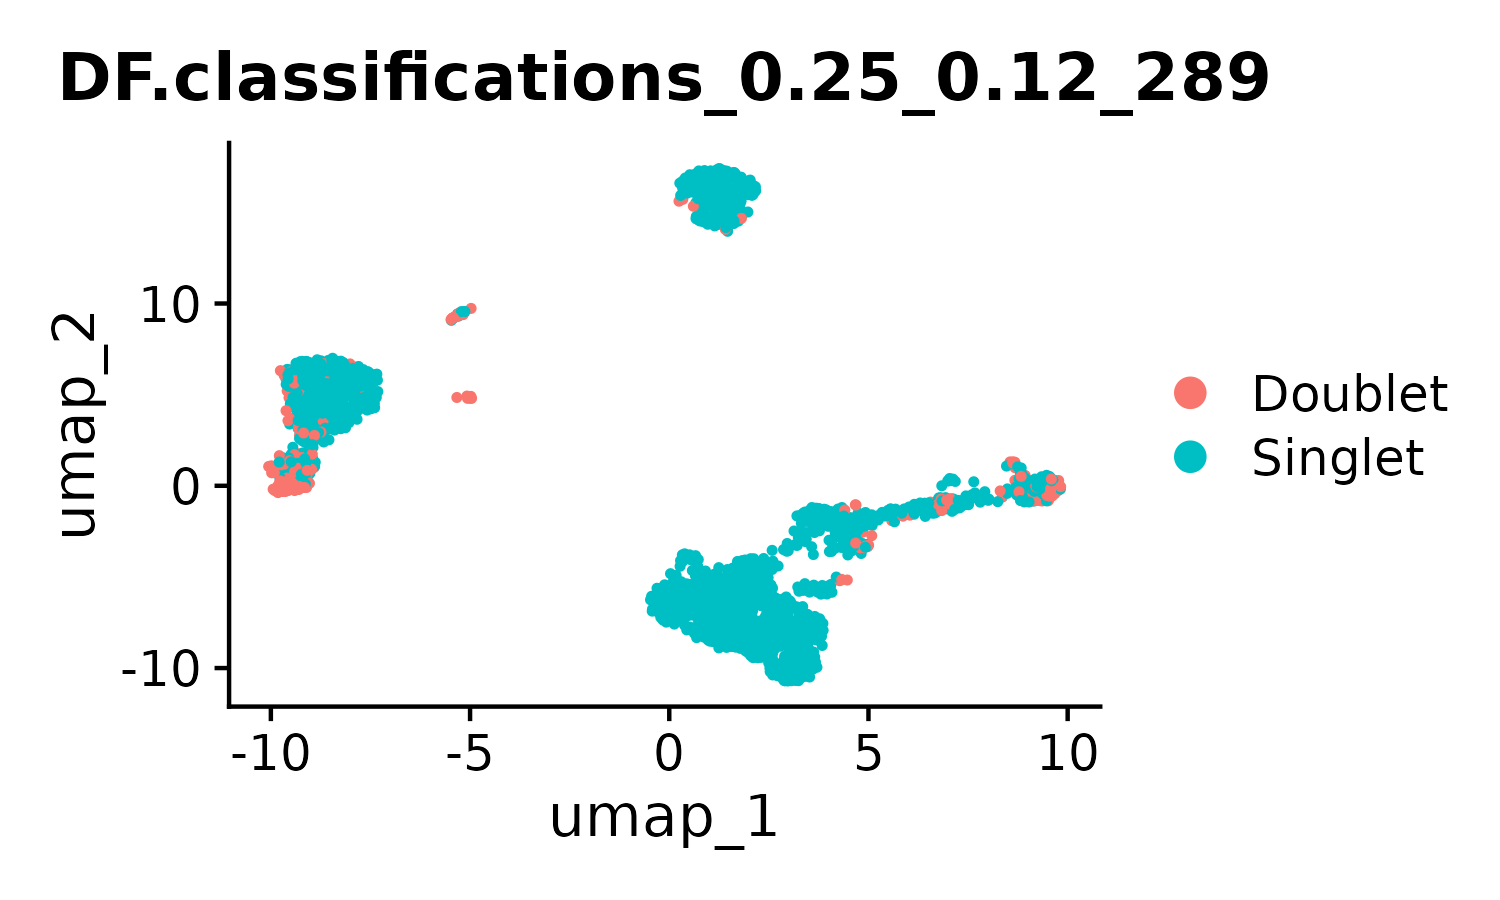
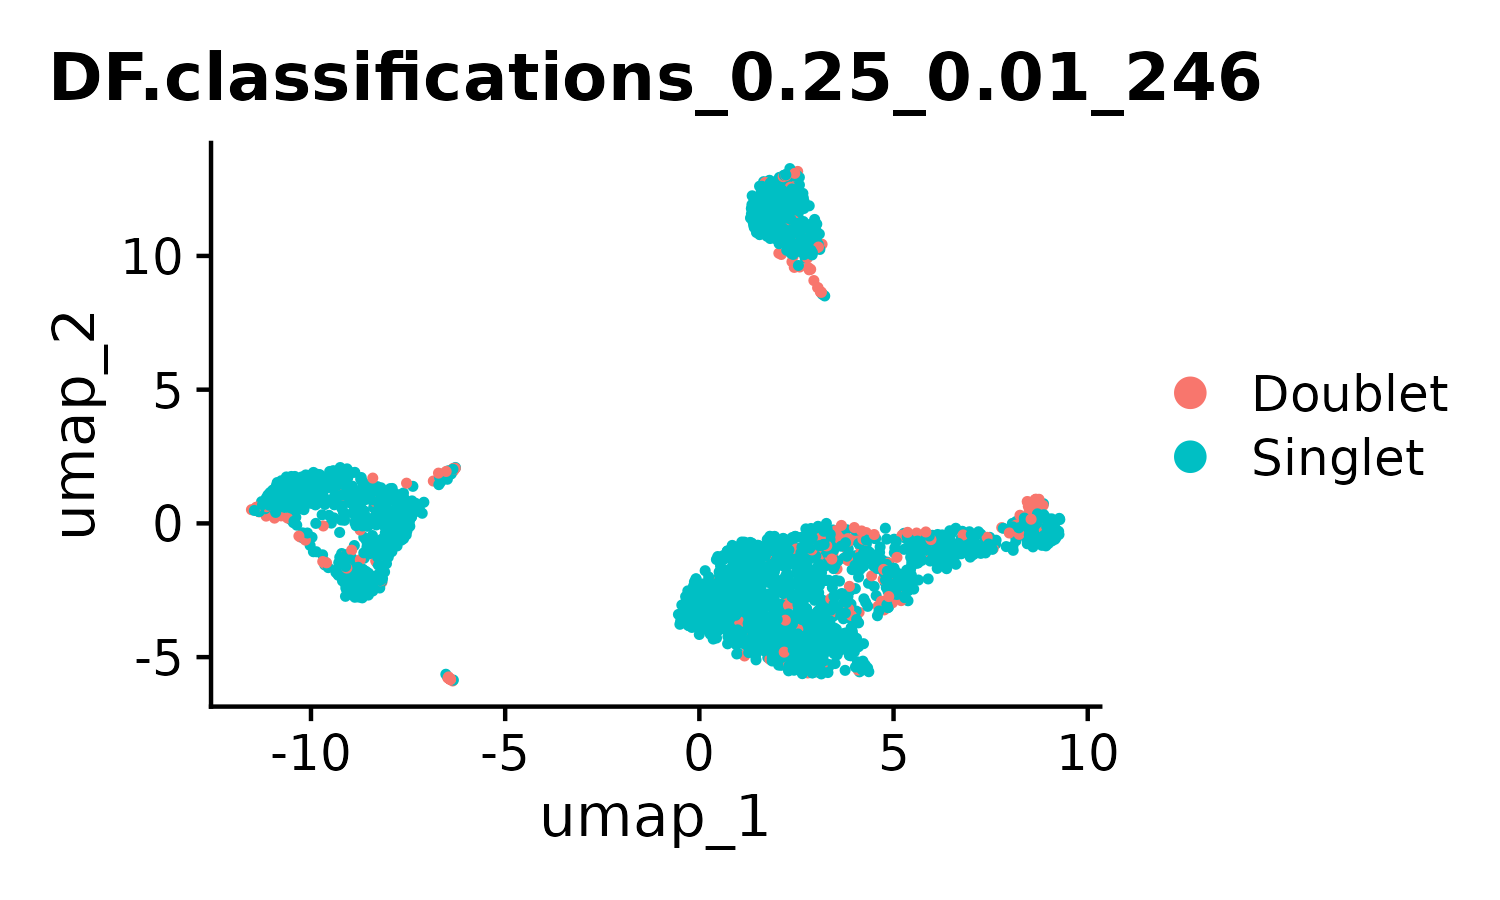
dcDBLfinder

diff --git a/scRNA/00__Report.md b/scRNA/00__Report.md
@@ -1,9 +1,16 @@
 
+```R
+> packageVersion(c("Seurat"))
+[1] ‘5.1.0’
 
+## 根据SCT的提示安装了一个什么包，之后matrixStats就有error需降低版本
+## wget https://cran.r-project.org/src/contrib/Archive/matrixStats/matrixStats_1.1.0.tar.gz
+install.packages("matrixStats_1.1.0.tar.gz",repos=NULL) 
+```
 
 ## 01 数据
 
-同spatial练习，或[Scanpy笔记(pbcm3k)](https://jiarong-l.github.io/notes/Bioinfo/Blocks/Scanpy/)
+同Spatial练习，或[Scanpy笔记(pbcm3k)](https://jiarong-l.github.io/notes/Bioinfo/Blocks/Scanpy/)
 
 ```bash
 pbmc3k
@@ -15,15 +22,17 @@ pbmc3k
 
 ## 02 预处理
 
-开始前，先进行基本处理：Filtering + SCTransform() + PCA/Clustering
+开始前，先进行基本处理：Filtering(MT/..) + SCTransform() + PCA/Clustering + 批次合并(Spatial_04a/b) + 细胞周期
+
+建议综合考虑多个软件的结果（此练习只是单纯的分别运行代码、没有投票整合），不过也可以只用SOTA方法
 
 a. 去除Doublet（UMI异常高的细胞），但需要注意（免疫细胞+组织细胞）的情况    
+    - Scrublet(Py), DoubletFinder(R), scDblFinder(R)
 b. Imputation进行降噪    
 c. 去除Contamination（破碎细胞飘入液滴）    
 
 
-
-![DoubletFinder(2411 Singlet)](./img/02a_1.png)
+![DoubletFinder(均匀分布可能是ok的？)](./img/02a_1.png)
 
 
 
